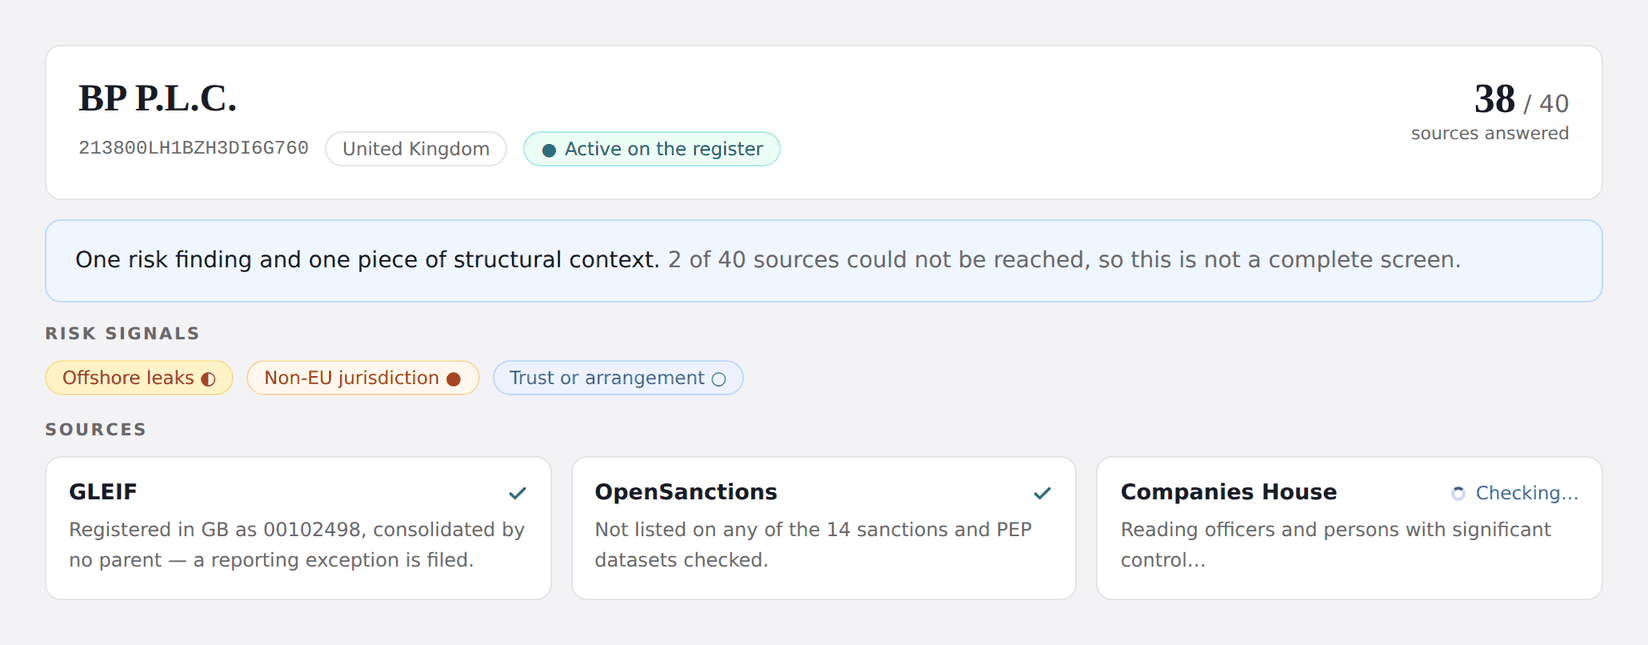
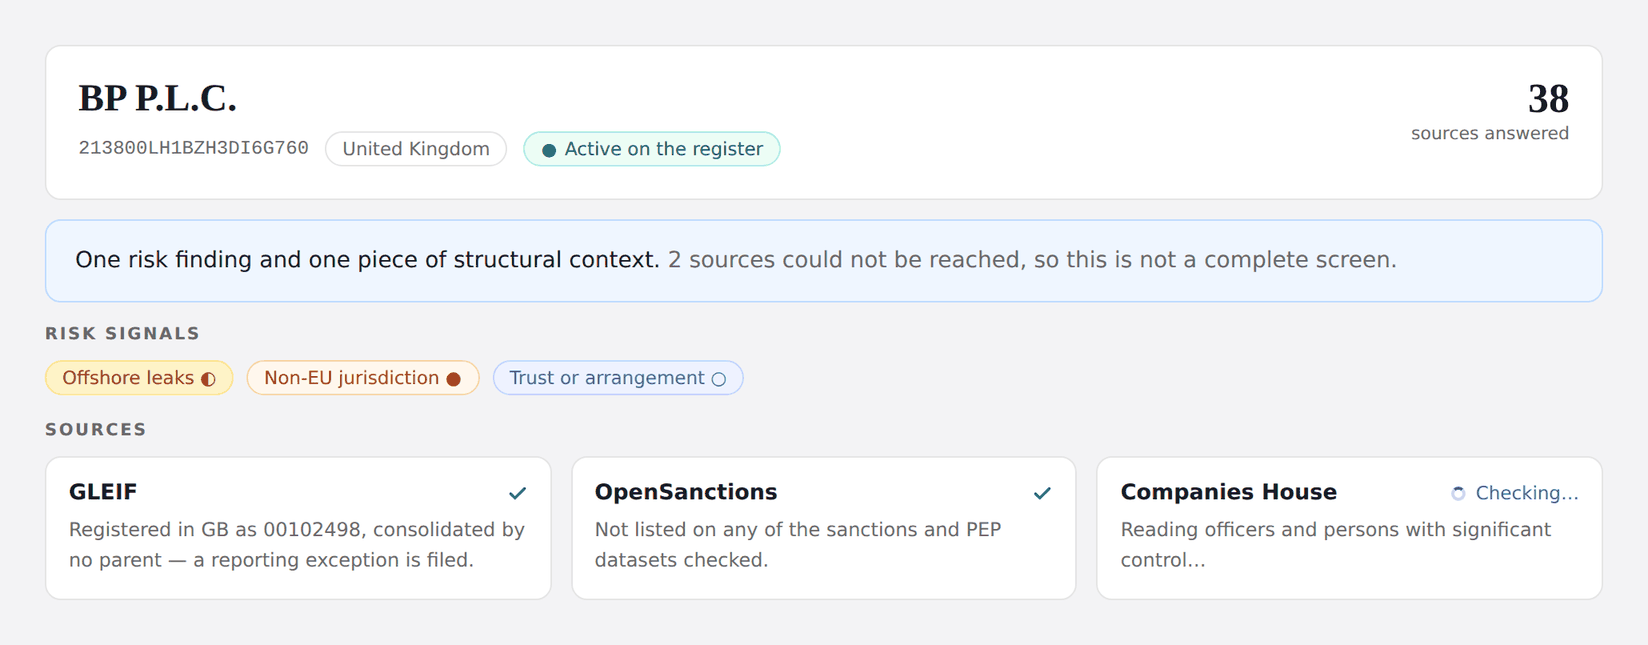
/features: no registry total in the artwork either, and ship the generator
Live check after #221 found the same drift one layer down: the QuickCheck
illustration has "38 / 40 sources answered" and "2 of 40 sources could not
be reached" baked into the pixels, sitting directly under a lede that now
correctly reads "41 open sources". A picture has no prop to take the count
from, so the fix is the second half of the same rule — where you cannot
read the count, do not state it:

- The subject card reads "38 / sources answered" with no denominator, and
  the verdict sentence "2 sources could not be reached". Both are
  per-lookup facts, which is what the illustration is showing; neither can
  go stale when a source is added.
- The OpenSanctions card loses "the 14 sanctions and PEP datasets checked"
  for the same reason — that figure moves with upstream, not with us.

backend/scripts/build_feature_images.py is the generator that produces all
six, committed rather than left in a scratch directory. Phase 175 said the
images are built from the design tokens and never screenshotted, which is
only a followable instruction if the thing that builds them exists: without
it, "regenerate" means "redraw from scratch" and the next person screenshots
production instead. Its docstring carries the no-registry-total rule.

Verified by running it: the six PNGs it produces are byte-for-byte identical
to the ones on main, quickcheck.png aside, which is the intended change.
Two bugs fixed while proving that — a module-level loop wrote the scratch
[…]

Changed region(s): [[0.4023, 0.3721, 0.8975, 0.4341], [0.8975, 0.124, 0.9593, 0.186], [0.4951, 0.8062, 0.6189, 0.8372]]

diff --git a/backend/scripts/build_feature_images.py b/backend/scripts/build_feature_images.py
@@ -1,0 +1,399 @@
+#!/usr/bin/env python3
+"""Build the six illustrations on the /features page.
+
+These are **not screenshots**. Each one is a cropped mock of the real
+component, drawn here from the shipped design tokens (the same values as
+``frontend/tailwind.config.js``) and rendered HTML -> PNG. Two reasons:
+
+* the page and its pictures cannot end up in two different colour systems,
+  which is what happens when marketing art is captured once and the component
+  is restyled afterwards; and
+* a component redesign does not silently date the page — it dates this file,
+  which is a diff someone can see.
+
+**The artwork states per-lookup facts only, never a registry total.** The
+first cut said "38 / 40 sources answered" and "2 of 40 sources could not be
+reached", and was wrong within two days when ``eiti_assessment`` took the
+registry to 41 — the same drift ``lib/features.ts`` avoids by taking the count
+from ``/sources``, except a picture has no prop to take it from. So: "38
+sources answered", "2 sources could not be reached", and no denominator
+anywhere. See the ``opencheck-source-count-refs`` rule: prefer reading the
+count to stating it, and where you cannot read it, do not state it.
+
+Usage (needs ``playwright`` and ``pillow``, and a network path to Google
+Fonts for Bitter / DM Sans / DM Mono)::
+
+    python3 backend/scripts/build_feature_images.py --out frontend/public/features
+
+Output: 1,648px wide PNGs, quantised to 200 colours, 53-74 KB each.
+"""
+
+import argparse
+import pathlib
+import tempfile
+
+
+OUT = pathlib.Path(__file__).resolve().parents[2] / "frontend" / "public" / "features"
+W, H = 1030, 560
+
+NAVY="#191d23"; BLUE="#3d30d4"; MUTED="#696969"; RULE="#e5e5e5"; BG="#f3f3f5"
+SOFT="#eef1fb"; SOFTB="#cfd6f5"; MARKNAVY="#0d1b3e"; LINE="#93c5fd"
+OKBG="#ecfdf5"; OKBD="#a7f3d0"; OKTX="#047857"
+WARNBG="#fffbeb"; WARNBD="#fcd34d"; WARNTX="#92400e"
+INFOBG="#f0f9ff"; INFOBD="#bae6fd"; INFOTX="#0369a1"
+GO="#3b82f6"; GOT="#1d4ed8"; GOTINT="#eff6ff"; GOTB="#bfdbfe"
+GC="#e65100"; GCT="#9a3412"; GR="#7c3aed"; GRT="#6d28d9"; GRTINT="#f5f3ff"
+HEAD="Bitter, Georgia, serif"; BODY="'DM Sans', system-ui, sans-serif"
+MONO="'DM Mono', ui-monospace, monospace"
+FONTS=('<link rel="stylesheet" href="https://fonts.googleapis.com/css2?'
+       'family=Bitter:wght@400;700&family=DM+Sans:wght@400;500;700&'
+       'family=DM+Mono:wght@400;500&display=swap">')
+
+def chip(text, bg, bd, tx, glyph=""):
+    g = (f'<span style="font-size:11px;line-height:1">{glyph}</span>' if glyph else "")
+    return (f'<span style="display:inline-flex;align-items:center;gap:5px;background:{bg};'
+            f'border:1px solid {bd};color:{tx};border-radius:999px;padding:3px 10px;'
+            f'font-family:{BODY};font-size:11.5px;font-weight:500;white-space:nowrap">{g}{text}</span>')
+
+def label(t, mb=10):
+    return (f'<p style="font-family:{BODY};font-size:10.5px;font-weight:700;text-transform:uppercase;'
+            f'letter-spacing:0.12em;color:{MUTED};margin:0 0 {mb}px">{t}</p>')
+
+def card(inner, pad=18, extra=""):
+    return (f'<div style="background:#fff;border:1px solid {RULE};border-radius:10px;'
+            f'padding:{pad}px;{extra}">{inner}</div>')
+
+def page(inner, pad=28, bg=BG):
+    return f"""<!doctype html><html><head><meta charset="utf-8">{FONTS}
+<style>*{{box-sizing:border-box}}body{{margin:0;background:{bg};width:{W}px}}</style>
+</head><body><div style="padding:{pad}px">{inner}</div></body></html>"""
+
+TICK = ('<svg width="13" height="13" viewBox="0 0 24 24" fill="none" stroke="#047857" stroke-width="3" '
+        'stroke-linecap="round" stroke-linejoin="round"><path d="M20 6 9 17l-5-5"/></svg>')
+
+# ------------------------------------------------------------------ 1 QuickCheck
+def quickcheck():
+    subject = card(
+        f'<div style="display:flex;justify-content:space-between;align-items:flex-start;gap:20px">'
+        f'<div><h2 style="font-family:{HEAD};font-weight:700;font-size:24px;color:{NAVY};margin:0 0 6px">BP P.L.C.</h2>'
+        f'<div style="display:flex;align-items:center;gap:10px">'
+        f'<span style="font-family:{MONO};font-size:12px;color:{MUTED}">213800LH1BZH3DI6G760</span>'
+        f'{chip("United Kingdom", "#fff", RULE, MUTED)}{chip("Active on the register", OKBG, OKBD, OKTX, "●")}'
+        f'</div></div>'
+        f'<div style="text-align:right;flex:0 0 auto">'
+        f'<div style="font-family:{HEAD};font-weight:700;font-size:26px;color:{NAVY};line-height:1">38</div>'
+        f'<div style="font-family:{BODY};font-size:11px;color:{MUTED};margin-top:2px">sources answered</div>'
+        f'</div></div>', 20)
+    verdict = (f'<div style="background:{GOTINT};border:1px solid {GOTB};border-radius:10px;padding:14px 18px;'
+               f'font-family:{BODY};font-size:14px;line-height:1.6;color:{NAVY}">'
+               f'One risk finding and one piece of structural context. '
+               f'<span style="color:{MUTED}">2 sources could not be reached, so this is not a complete screen.</span></div>')
+    chips = (f'<div style="display:flex;gap:8px;flex-wrap:wrap">'
+             + chip("Offshore leaks ◐", "#fef3c7", "#fde68a", "#92400e")
+             + chip("Non-EU jurisdiction ●", "#fff7ed", "#fed7aa", "#c2410c")
+             + chip("Trust or arrangement ○", "#eef2ff", "#c7d2fe", "#4338ca") + '</div>')
+    def src(name, meta, state):
+        if state == "run":
+            right = (f'<span style="display:inline-flex;align-items:center;gap:6px;font-family:{BODY};'
+                     f'font-size:11.5px;color:{BLUE}">'
+                     f'<span style="width:9px;height:9px;border-radius:50%;border:2px solid {SOFTB};'
+                     f'border-top-color:{BLUE};display:inline-block"></span>Checking…</span>')
+        else:
+            right = TICK
+        return card(f'<div style="display:flex;justify-content:space-between;align-items:center;gap:10px;margin-bottom:6px">'
+                    f'<span style="font-family:{BODY};font-size:13.5px;font-weight:700;color:{NAVY}">{name}</span>{right}</div>'
+                    f'<p style="font-family:{BODY};font-size:12px;line-height:1.55;color:{MUTED};margin:0">{meta}</p>', 14)
+    grid = (f'<div style="display:grid;grid-template-columns:repeat(3,minmax(0,1fr));gap:12px">'
+            + src("GLEIF", "Registered in GB as 00102498, consolidated by no parent — a reporting exception is filed.", "ok")
+            + src("OpenSanctions", "Not listed on any of the sanctions and PEP datasets checked.", "ok")
+            + src("Companies House", "Reading officers and persons with significant control…", "run") + '</div>')
+    return page(f'{subject}<div style="height:12px"></div>{verdict}<div style="height:14px"></div>'
+                f'{label("Risk signals")}{chips}<div style="height:16px"></div>'
+                f'{label("Sources")}{grid}')
+
+# ------------------------------------------------------------------ 2 FullCheck
+def node(x, y, r, fill, stroke, glyph="", flag=None, badge=None, badge_col=None):
+    s = (f'<circle cx="{x}" cy="{y}" r="{r}" fill="{fill}" stroke="{stroke}" stroke-width="2.5"/>')
+    if glyph:
+        s += (f'<g transform="translate({x} {y}) scale({r/17}) translate(-12 -12)" fill="none" '
+              f'stroke="{stroke}" stroke-width="1.9" stroke-linecap="round" stroke-linejoin="round">{glyph}</g>')
+    if flag:
+        fx, fy = x + r*0.707, y - r*0.707
+        s += (f'<rect x="{fx-11}" y="{fy-7}" width="22" height="14" rx="2.5" fill="#fff" stroke="{RULE}"/>'
+              f'<text x="{fx}" y="{fy+4}" text-anchor="middle" font-family="{BODY}" font-size="9" '
+              f'font-weight="700" fill="{MUTED}">{flag}</text>')
+    if badge:
+        bx, by = x - r*0.707, y - r*0.707
+        wpx = 7.2*len(badge) + 18
+        s += (f'<rect x="{bx-wpx}" y="{by-11}" width="{wpx}" height="21" rx="10.5" fill="{badge_col[0]}" '
+              f'stroke="{badge_col[1]}"/>'
+              f'<text x="{bx-wpx/2}" y="{by+3.5}" text-anchor="middle" font-family="{BODY}" font-size="10.5" '
+              f'font-weight="700" fill="{badge_col[2]}">{badge}</text>')
+    return s
+
+ORG = '<path d="M5 21V5h9v16M14 10h5v11M8 9h3M8 13h3M8 17h3M17 14h0M17 18h0"/>'
+PER = '<circle cx="12" cy="8" r="3.4"/><path d="M5 20c.8-3.5 3.6-5.5 7-5.5s6.2 2 7 5.5"/>'
+
+def edge(x1,y1,x2,y2,col,dash=None,lab=None,labcol=None):
+    d = f' stroke-dasharray="{dash}"' if dash else ""
+    s = f'<line x1="{x1}" y1="{y1}" x2="{x2}" y2="{y2}" stroke="{col}" stroke-width="2.2"{d} marker-end="url(#ar)"/>'
+    if lab:
+        mx,my=(x1+x2)/2,(y1+y2)/2
+        w=6.6*len(lab)+14
+        s += (f'<rect x="{mx-w/2}" y="{my-10}" width="{w}" height="19" rx="4" fill="#fff" stroke="{RULE}"/>'
+              f'<text x="{mx}" y="{my+3.5}" text-anchor="middle" font-family="{BODY}" font-size="10.5" '
+              f'font-weight="500" fill="{labcol}">{lab}</text>')
+    return s
+
+def chipsvg(x, y, lab, col):
+    w = 6.6 * len(lab) + 16
+    return (f'<rect x="{x - w / 2}" y="{y - 10}" width="{w}" height="19" rx="4" fill="#fff" stroke="{RULE}"/>'
+            f'<text x="{x}" y="{y + 3.5}" text-anchor="middle" font-family="{BODY}" font-size="10.5" '
+            f'font-weight="500" fill="{col}">{lab}</text>')
+
+STATE = '<path d="M4 20h16M6 20V9l6-4 6 4v11M10 20v-5h4v5"/>'
+
+def txt(x, y, t, size=11.5, col=MUTED, anchor="middle", weight="400", fam=None):
+    return (f'<text x="{x}" y="{y}" text-anchor="{anchor}" font-family="{fam or BODY}" '
+            f'font-size="{size}" font-weight="{weight}" fill="{col}">{t}</text>')
+
+def fullcheck():
+    E = lambda *a, **k: edge(*a, **k)
+    svg = (f'<svg width="100%" height="414" viewBox="0 0 966 414">'
+           f'<defs><marker id="ar" viewBox="0 0 10 10" refX="9" refY="5" markerUnits="strokeWidth" '
+           f'markerWidth="7" markerHeight="5" orient="auto"><path d="M 0 0 L 10 5 L 0 10 z" fill="#666"/></marker></defs>'
+           + E(250, 84, 250, 174, GO, None, "owns 100%", GOT)
+           + E(250, 222, 250, 308, GO, None, "owns 63%", GOT)
+           + E(676, 76, 286, 318, GC, "6 4", None, None)
+           + E(678, 208, 284, 332, GR, "2 4", None, None)
+           + chipsvg(537, 162, "controls", GCT) + chipsvg(538, 252, "director", GRT)
+           + node(250, 58, 24, "#fff", GO, ORG, "AE", "Sanctions control", ("#ffe4e6", "#fda4af", "#9f1239"))
+           + node(250, 198, 24, "#fff", GO, ORG, "NL")
+           + node(250, 336, 28, GOTINT, BLUE, ORG, "GB")
+           + node(700, 58, 24, "#fff", GC, ORG, "KY")
+           + node(700, 198, 22, "#fff", GR, PER, None, "PEP", ("#f5f3ff", "#ddd6fe", "#6d28d9"))
+           + txt(288, 54, "Abu Dhabi National Energy Co.", 12, NAVY, "start", "500")
+           + txt(288, 70, "the ultimate parent", 10.5, MUTED, "start")
+           + txt(288, 194, "TAQA Bratani Holdings B.V.", 12, NAVY, "start", "500")
+           + txt(288, 210, "intermediate holding company", 10.5, MUTED, "start")
+           + txt(738, 54, "Intermediate holding co.", 12, NAVY, "start", "500")
+           + txt(738, 70, "Cayman Islands", 10.5, MUTED, "start")
+           + txt(730, 194, "Named director", 12, NAVY, "start", "500")
+           + txt(730, 210, "a natural person", 10.5, MUTED, "start")
+           + txt(250, 384, "TAQA BRATANI LIMITED", 12.5, NAVY, "middle", "700")
+           + txt(250, 401, "the subject", 10.5, MUTED, "middle", "400", MONO)
+           + '</svg>')
+    def _leg(t, c, d):
+        da = ' stroke-dasharray="' + d + '"' if d else ""
+        return (f'<span style="display:inline-flex;align-items:center;gap:7px;font-family:{BODY};'
+                f'font-size:11.5px;color:{MUTED}">'
+                f'<svg width="26" height="8"><line x1="0" y1="4" x2="26" y2="4" stroke="{c}" '
+                f'stroke-width="2.4"{da}/></svg>{t}</span>')
+    leg = "".join(_leg(t, c, d) for t, c, d in
+                  [("Ownership", GO, None), ("Control", GC, "6 4"), ("Role", GR, "2 4")])
+    return page(card(f'<div style="display:flex;justify-content:space-between;align-items:center;margin-bottom:2px">'
+                     f'{label("Ownership and control network", 0)}'
+                     f'<div style="display:flex;gap:16px">{leg}</div></div>{svg}', 18))
+
+# ------------------------------------------------------------------ 3 BackgroundCheck
+def backgroundcheck():
+    def person(name, role, conf, conf_lab, signals, note):
+        cc = {"high": ("#ecfdf5", "#a7f3d0", "#047857"), "med": ("#fffbeb", WARNBD, WARNTX),
+              "none": ("#f3f3f5", RULE, MUTED)}[conf]
+        sig = "".join(signals)
+        return (f'<div style="display:flex;align-items:flex-start;gap:14px;padding:14px 0;'
+                f'border-bottom:1px solid {RULE}">'
+                f'<div style="width:36px;height:36px;border-radius:50%;background:{GRTINT};border:1.5px solid {GR};'
+                f'display:flex;align-items:center;justify-content:center;flex:0 0 auto">'
+                f'<svg width="19" height="19" viewBox="0 0 24 24" fill="none" stroke="{GRT}" stroke-width="1.9" '
+                f'stroke-linecap="round"><circle cx="12" cy="8" r="3.4"/>'
+                f'<path d="M5 20c.8-3.5 3.6-5.5 7-5.5s6.2 2 7 5.5"/></svg></div>'
+                f'<div style="flex:1 1 0;min-width:0">'
+                f'<div style="display:flex;align-items:center;gap:9px;flex-wrap:wrap;margin-bottom:4px">'
+                f'<span style="font-family:{BODY};font-size:14px;font-weight:700;color:{NAVY}">{name}</span>'
+                f'{chip(conf_lab, cc[0], cc[1], cc[2])}{sig}</div>'
+                f'<p style="font-family:{BODY};font-size:12px;line-height:1.55;color:{MUTED};margin:0">'
+                f'{role} · {note}</p></div></div>')
+    rows = (person("Mads Nipper", "Director, appointed 2021", "med",
+                   "Possible match · 0.91", [chip("Politically exposed ◐", "#f5f3ff", "#ddd6fe", "#6d28d9")],
+                   "matched on name and birth year in OpenSanctions")
+            + person("Henriette Hallberg Thygesen", "Director, appointed 2023", "high",
+                     "No match · checked", [], "checked against OpenSanctions, ICIJ and OpenAleph — nothing returned")
+            + person("Lene Skole-Sørensen", "Person with significant control", "none",
+                     "Not screened", [chip("1 source unavailable", WARNBG, WARNBD, WARNTX, "⚠")],
+                     "OpenSanctions could not be reached, so this person has not been screened"))
+    return page(f'{label("People named in the records")}'
+                + card(rows + f'<p style="font-family:{BODY};font-size:12px;line-height:1.6;color:{MUTED};'
+                       f'margin:14px 0 0">A name match is not an identity claim. Every row says which sources '
+                       f'answered, and a person no source could answer for is reported as unscreened — never as clear.</p>', 20))
+
+# ------------------------------------------------------------------ 4 Batch
+def batch():
+    paste = card(
+        f'{label("Paste LEIs")}'
+        f'<div style="border:1px solid {SOFTB};border-radius:10px;background:{BG};padding:12px 14px;'
+        f'font-family:{MONO};font-size:12px;line-height:1.9;color:{NAVY}">'
+        f'213800LH1BZH3DI6G760<br>529900RWC8ZYB066JF16<br>335800TYLGG93MM7PR89<br>'
+        f'<span style="color:{MUTED}">W9NG6WMZIYEU8VEDOG48</span></div>'
+        f'<p style="font-family:{BODY};font-size:11.5px;color:{MUTED};margin:9px 0 0;line-height:1.6">'
+        f'4 valid LEIs · 1 duplicate removed · up to 20 per batch<br>About 3 minutes — OpenCheck queues behind '
+        f'GLEIF rather than tripping its rate limit.</p>'
+        f'<div style="margin-top:12px;display:flex;gap:8px">'
+        f'<span style="display:inline-flex;align-items:center;background:{BLUE};color:#fff;border-radius:10px;'
+        f'padding:0 16px;height:40px;font-family:{BODY};font-size:13px;font-weight:700">Screen 4 companies</span>'
+        f'<span style="display:inline-flex;align-items:center;background:#fff;border:1px solid {SOFTB};color:{BLUE};'
+        f'border-radius:10px;padding:0 14px;height:40px;font-family:{BODY};font-size:13px;font-weight:500">Download CSV</span>'
+        f'</div>', 18)
+    def row(nm, lei, status, sbg, sbd, stx, verdict, risk, tint=False):
+        return (f'<tr style="background:{WARNBG if tint else "#fff"}">'
+                f'<td style="padding:10px 12px;border-bottom:1px solid {RULE};font-family:{BODY};font-size:12.5px;'
+                f'font-weight:700;color:{NAVY};white-space:nowrap">{nm}<br>'
+                f'<span style="font-family:{MONO};font-size:10px;font-weight:400;color:{MUTED}">{lei}</span></td>'
+                f'<td style="padding:10px 12px;border-bottom:1px solid {RULE}">{chip(status, sbg, sbd, stx)}</td>'
+                f'<td style="padding:10px 12px;border-bottom:1px solid {RULE};font-family:{BODY};font-size:12px;'
+                f'color:{MUTED};line-height:1.5">{verdict}</td>'
+                f'<td style="padding:10px 12px;border-bottom:1px solid {RULE};text-align:right">{risk}</td></tr>')
+    table = card(
+        f'<table style="width:100%;border-collapse:collapse">'
+        f'<tr>' + "".join(
+            f'<th style="text-align:{a};padding:0 12px 9px;font-family:{BODY};font-size:10px;font-weight:700;'
+            f'text-transform:uppercase;letter-spacing:0.1em;color:{MUTED};border-bottom:1px solid {RULE}">{t}</th>'
+            for t, a in [("Company", "left"), ("Register", "left"), ("Verdict", "left"), ("Findings", "right")]) + '</tr>'
+        + row("TAQA BRATANI LIMITED", "213800E11LI1SCET…", "Not fully checked", WARNBG, WARNBD, WARNTX,
+              "3 sources unavailable — sorted first, never rendered as clean.",
+              chip("2 risk", "#ffe4e6", "#fda4af", "#9f1239"), tint=True)
+        + row("BP P.L.C.", "213800LH1BZH3DI…", "Active", OKBG, OKBD, OKTX,
+              "One risk finding, one piece of structural context.", chip("1 risk", "#fef3c7", "#fde68a", "#92400e"))
+        + row("ØRSTED A/S", "W9NG6WMZIYEU8VE…", "Active", OKBG, OKBD, OKTX,
+              "No risk findings from the 38 sources that answered.", chip("None", "#f3f3f5", RULE, MUTED))
+        + '</table>', 16)
+    return page(f'<div style="display:grid;grid-template-columns:352px 1fr;gap:16px;align-items:start">'
+                f'{paste}{table}</div>')
+
+# ------------------------------------------------------------------ 5 Time Machine
+def timemachine():
+    TEAL="#0d9488"
+    def ev(y, col, date, basis, title, detail, src):
+        return (f'<div style="display:flex;gap:16px;padding-bottom:18px;position:relative">'
+                f'<div style="flex:0 0 88px;text-align:right;padding-top:1px">'
+                f'<div style="font-family:{MONO};font-size:12px;color:{NAVY};font-weight:500">{date}</div>'
+                f'<div style="font-family:{BODY};font-size:10px;color:{MUTED}">{basis}</div></div>'
+                f'<div style="flex:0 0 14px;position:relative">'
+                f'<div style="width:12px;height:12px;border-radius:50%;background:{col};margin-top:3px"></div>'
+                f'<div style="position:absolute;left:5.5px;top:17px;bottom:-18px;width:1.5px;background:{RULE}"></div></div>'
+                f'<div style="flex:1 1 0;min-width:0">'
+                f'<div style="font-family:{BODY};font-size:13.5px;font-weight:700;color:{NAVY};margin-bottom:3px">{title}</div>'
+                f'<p style="font-family:{BODY};font-size:12px;line-height:1.55;color:{MUTED};margin:0 0 6px">{detail}</p>'
+                f'{src}</div></div>')
+    body = (ev(0, TEAL, "2021-11-19", "effective", "New parent — ownership",
+               'Market Bidco Limited began consolidating the company. The interest start date is the '
+               'relationship period’s, not the date GLEIF recorded it in 2023.',
+               chip("GLEIF", "#fff", RULE, MUTED))
+            + ev(0, GO, "2021-10-27", "effective", "Legal form changed",
+                 'Public limited company → private limited company. The 8888 → B6ES re-encoding earlier '
+                 'that year is suppressed: an encoding backfill is not a change.',
+                 chip("Companies House", "#fff", RULE, MUTED) + " " + chip("GLEIF", "#fff", RULE, MUTED))
+            + ev(0, GO, "2021-10-27", "effective", "Legal name changed",
+                 'Wm Morrison Supermarkets PLC → Wm Morrison Supermarkets Limited. Both sources report it; '
+                 'the effective date wins over the recorded one.',
+                 chip("Companies House", "#fff", RULE, MUTED)))
+    toggle = (f'<div style="border-top:1px dashed {SOFTB};margin-top:2px;padding-top:12px">'
+              f'<span style="display:inline-flex;align-items:center;gap:8px;font-family:{BODY};font-size:12.5px;'
+              f'color:{BLUE};font-weight:500">▸ Show 11 administrative changes'
+              f'<span style="font-family:{BODY};font-size:11px;color:{MUTED};font-weight:400">'
+              f'annual renewals, timezone backfills</span></span></div>')
+    return page(f'{label("Time Machine · WM MORRISON SUPERMARKETS LIMITED")}'
+                + card(body + toggle, 20))
+
+# ------------------------------------------------------------------ 6 Network
+def network():
+    O = "\u00d8"
+    DOWN, DOT = "\u25be", "\u00b7"
+    svg = (f'<svg width="100%" height="318" viewBox="0 0 478 318">'
+           f'<defs><marker id="ar2" viewBox="0 0 10 10" refX="9" refY="5" markerUnits="strokeWidth" '
+           f'markerWidth="7" markerHeight="5" orient="auto"><path d="M 0 0 L 10 5 L 0 10 z" fill="#666"/></marker></defs>'
+           + edge(150, 74, 150, 128, GC, "6 4", None, None).replace("ar)", "ar2)")
+           + edge(135, 184, 98, 242, GO, None, None, None).replace("ar)", "ar2)")
+           + edge(167, 184, 238, 242, GO, None, None, None).replace("ar)", "ar2)")
+           + edge(370, 160, 184, 160, GR, "2 4", None, None).replace("ar)", "ar2)")
+           + node(150, 50, 22, "#fff", GC, STATE, "DK")
+           + node(150, 158, 26, GOTINT, BLUE, ORG, "DK")
+           + node(84, 264, 20, "#fff", GO, ORG, "DK")
+           + node(252, 264, 20, "#fff", GO, ORG, "GB")
+           + node(392, 158, 20, "#fff", GR, PER, None, "PEP", ("#f5f3ff", "#ddd6fe", "#6d28d9"))
+           + txt(150, 22, "Danish State", 11, MUTED)
+           + txt(118, 155, "\u00d8RSTED A/S", 11.5, NAVY, "end", "700")
+           + txt(118, 170, "the subject", 10, MUTED, "end")
+           + txt(84, 300, "\u00d8rsted Wind Power", 10.5, MUTED)
+           + txt(252, 300, "UK subsidiary", 10.5, MUTED)
+           + txt(392, 124, "Named director", 10.5, MUTED)
+           + '</svg>')
+
+    def trow(indent, glyph, name, meta, sig=""):
+        return (f'<div style="display:flex;align-items:center;gap:9px;padding:8px 0 8px {indent}px;'
+                f'border-bottom:1px solid {RULE}">'
+                f'<span style="font-family:{MONO};font-size:11px;color:{MUTED};flex:0 0 auto">{glyph}</span>'
+                f'<span style="font-family:{BODY};font-size:12px;font-weight:500;color:{NAVY};flex:1 1 0;'
+                f'overflow:hidden;text-overflow:ellipsis;white-space:nowrap">{name}</span>'
+                f'{sig}<span style="font-family:{BODY};font-size:10.5px;color:{MUTED};flex:0 0 auto">{meta}</span></div>')
+    tree = (trow(0, DOWN, "Danish State", "controls")
+            + trow(14, DOWN, O + "rsted A/S", "subject")
+            + trow(28, DOT, O + "rsted Wind Power A/S", "owns 100%")
+            + trow(28, DOT, "UK subsidiary", "owns 100%")
+            + trow(28, DOT, "Named director", "director",
+                   chip("PEP", "#f5f3ff", "#ddd6fe", "#6d28d9") + "&nbsp;"))
+    return page(f'<div style="display:grid;grid-template-columns:1fr 356px;gap:16px;align-items:start">'
+                + card(label("Ownership graph " + DOT + " BOVS", 4) + svg, 16)
+                + card(f'{label("Read as text", 8)}{tree}'
+                       f'<p style="font-family:{BODY};font-size:11.5px;line-height:1.6;color:{MUTED};margin:12px 0 0">'
+                       f'Every graph carries the same statements as a list underneath, so the picture is never '
+                       f'the only way to get the information.</p>', 16) + '</div>')
+
+VIGS = {"quickcheck": quickcheck, "fullcheck": fullcheck, "backgroundcheck": backgroundcheck,
+        "batch": batch, "time-machine": timemachine, "network": network}
+
+
+WIDTH = 1648
+"""Rendered width. ~1.6x the 1,030px the page gives an image at its widest,
+which is enough for a 2x display without doubling the byte size."""
+
+
+def render(out_dir: pathlib.Path) -> None:
+    """Render every vignette to ``out_dir`` as an optimised PNG."""
+    from PIL import Image
+    from playwright.sync_api import sync_playwright
+
+    out_dir.mkdir(parents=True, exist_ok=True)
+    # Scratch HTML goes to a temp dir, never into the published directory:
+    # `frontend/public/` is served verbatim, so a stray .html would ship.
+    tmp = pathlib.Path(tempfile.mkdtemp(prefix="feature-images-"))
+    for name, fn in VIGS.items():
+        (tmp / f"{name}.html").write_text(fn(), encoding="utf-8")
+
+    with sync_playwright() as p:
+        browser = p.chromium.launch()
+        for name in VIGS:
+            # A short viewport plus full_page crops each image to its own
+            # content height, so the page gets six tight illustrations rather
+            # than six letterboxed ones.
+            page = browser.new_page(viewport={"width": W, "height": 80}, device_scale_factor=2)
+            page.goto((tmp / f"{name}.html").as_uri())
+            page.wait_for_timeout(1500)  # webfonts
+            page.screenshot(path=str(tmp / f"{name}@2x.png"), full_page=True)
+            page.close()
+        browser.close()
+
+    for name in VIGS:
+        im = Image.open(tmp / f"{name}@2x.png").convert("RGB")
+        height = round(im.height * WIDTH / im.width)
+        im = im.resize((WIDTH, height), Image.LANCZOS)
+        im.quantize(colors=200, dither=Image.NONE).save(out_dir / f"{name}.png", optimize=True)
+        size_kb = (out_dir / f"{name}.png").stat().st_size // 1024
+        print(f"{name}.png  {WIDTH}x{height}  {size_kb} KB")
+
+
+if __name__ == "__main__":
+    parser = argparse.ArgumentParser(description=__doc__)
+    parser.add_argument("--out", type=pathlib.Path, default=OUT,
+                        help="directory to write the PNGs into")
+    render(parser.parse_args().out)
